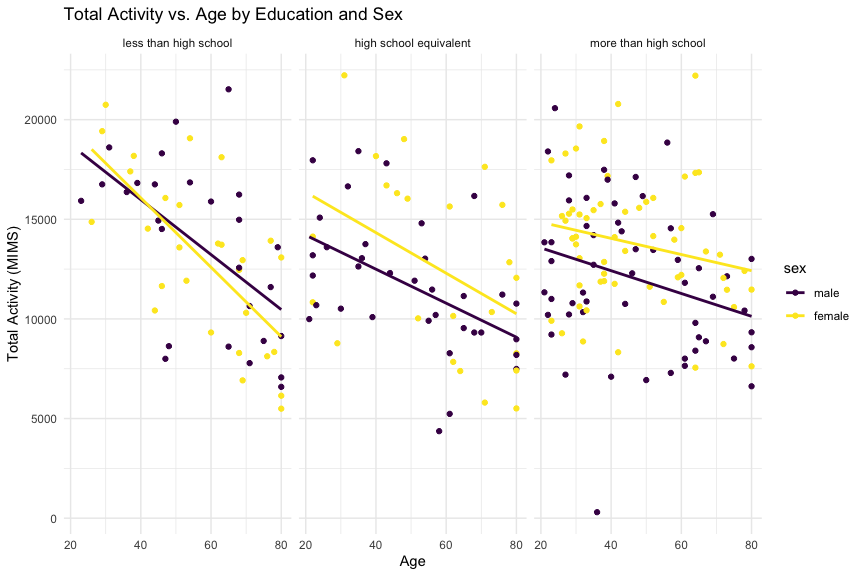
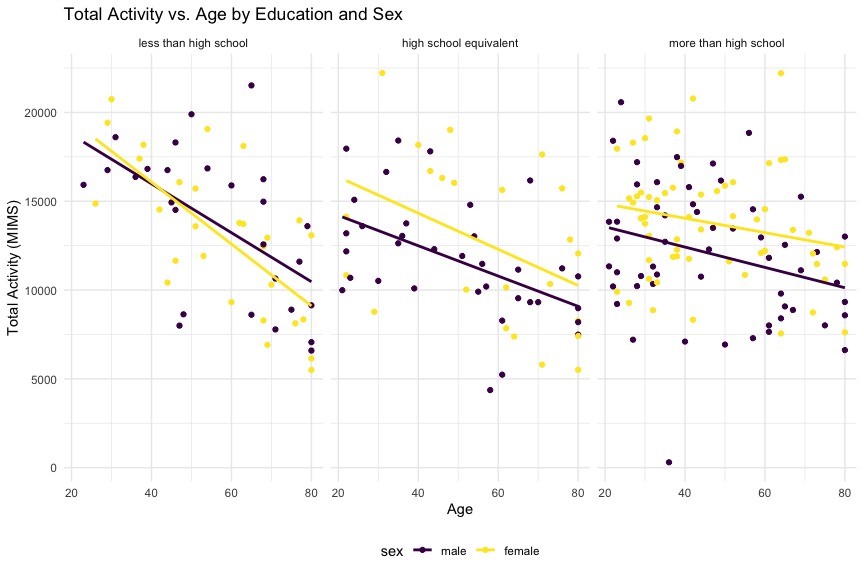
delete the captions for the tables

diff --git a/p8105_hw3_fl2715.md b/p8105_hw3_fl2715.md
@@ -256,7 +256,7 @@ education_sex_table = data  |>
     ## `.groups` argument.
 
 ``` r
-knitr::kable(education_sex_table, caption = "Number of Men and Women in Each Education Category")
+knitr::kable(education_sex_table)
 ```
 
 | education              | male | female |
@@ -264,8 +264,6 @@ knitr::kable(education_sex_table, caption = "Number of Men and Women in Each Edu
 | less than high school  |   27 |     28 |
 | high school equivalent |   35 |     23 |
 | more than high school  |   56 |     59 |
-
-Number of Men and Women in Each Education Category
 
 Comments:
 
@@ -329,8 +327,7 @@ ggplot(total_activity, aes(x = age, y = total_mims, color = sex)) +
   geom_point() +
   geom_smooth(method = "lm",se = FALSE) +
   facet_wrap(~ education) +
-  labs(title = "Total Activity vs. Age by Education and Sex", x = "Age", y = "Total Activity (MIMS)") +
-  theme_minimal()
+  labs(title = "Total Activity vs. Age by Education and Sex", x = "Age", y = "Total Activity (MIMS)")
 ```
 
     ## `geom_smooth()` using formula = 'y ~ x'
@@ -486,7 +483,7 @@ ride_summary = combined_data  |>
     ## `.groups` argument.
 
 ``` r
-knitr::kable(ride_summary, caption = "Total Number of Rides by Year, Month, and Membership Status")
+knitr::kable(ride_summary)
 ```
 
 | year | month   | casual | member |
@@ -495,8 +492,6 @@ knitr::kable(ride_summary, caption = "Total Number of Rides by Year, Month, and 
 | 2020 | July    |   5637 |  15411 |
 | 2024 | January |   2108 |  16753 |
 | 2024 | July    |  10894 |  36262 |
-
-Total Number of Rides by Year, Month, and Membership Status
 
 Comment:
 
@@ -519,7 +514,7 @@ top_stations_july_2024 = july_2024_data  |>
   arrange(desc(num_rides))  |> 
   head(5)
 
-knitr::kable(top_stations_july_2024, caption = "Top 5 Starting Stations in July 2024")
+knitr::kable(top_stations_july_2024)
 ```
 
 | start_station_name       | num_rides |
@@ -529,8 +524,6 @@ knitr::kable(top_stations_july_2024, caption = "Top 5 Starting Stations in July 
 | W 21 St & 6 Ave          |       152 |
 | West St & Chambers St    |       150 |
 | W 31 St & 7 Ave          |       146 |
-
-Top 5 Starting Stations in July 2024
 
 ### Effects of Day, Month, and Year on Median Ride Duration
 
